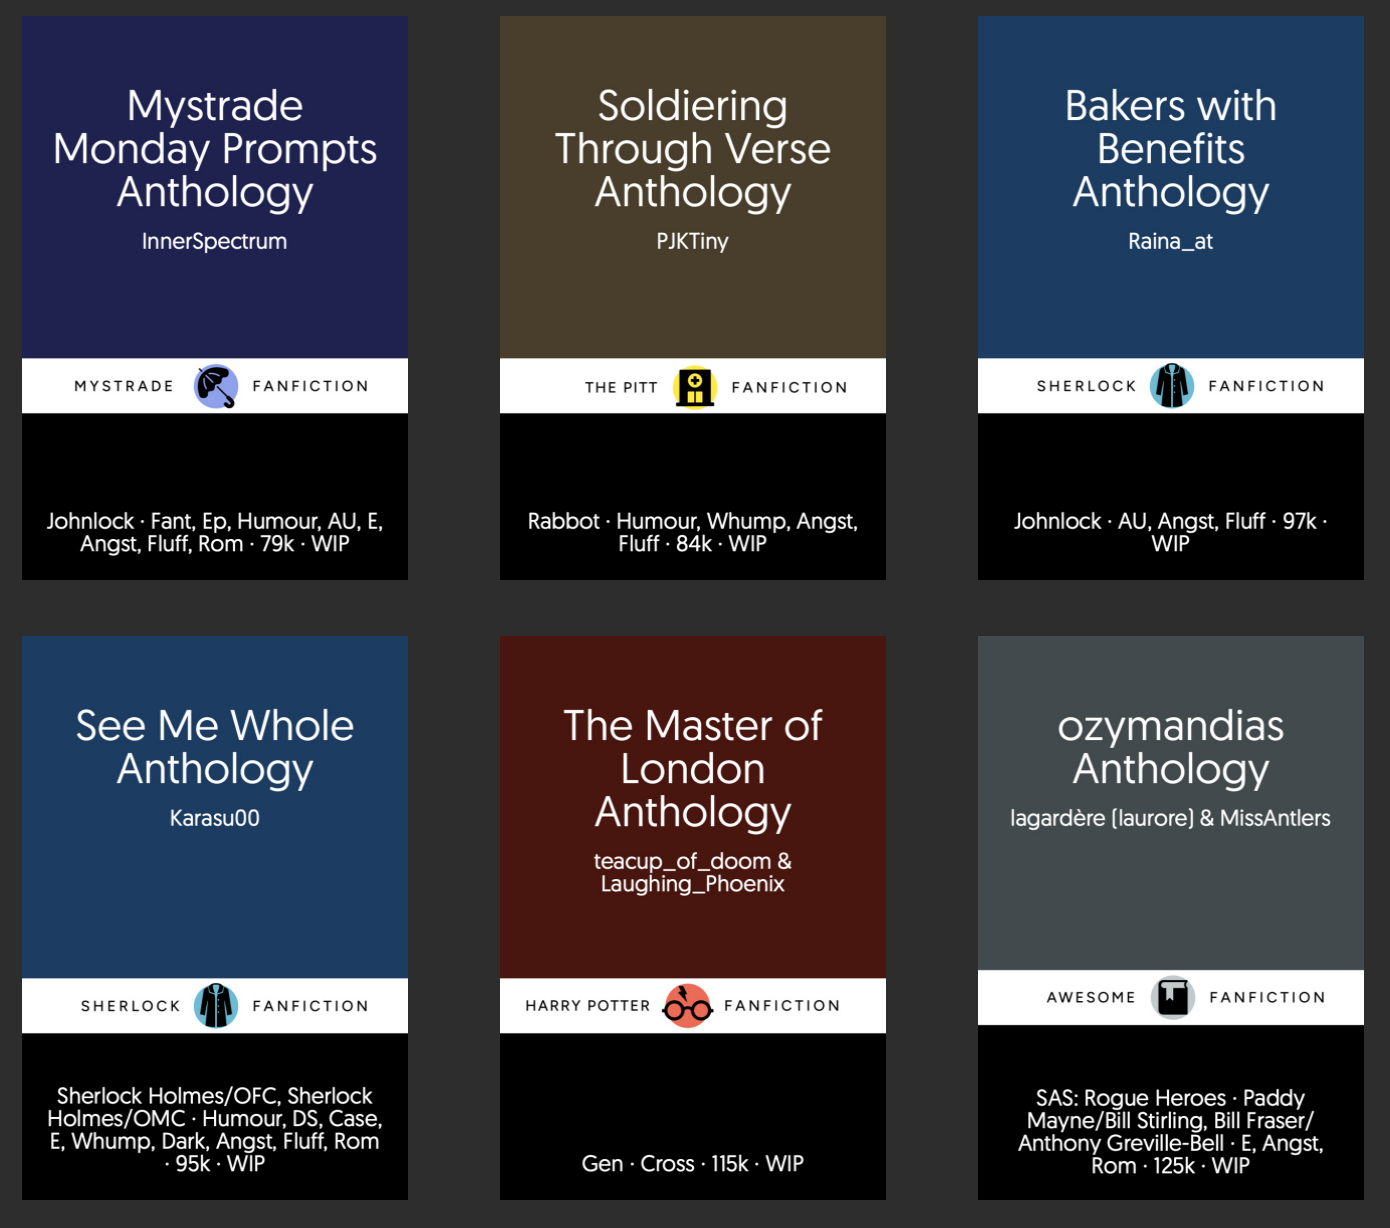
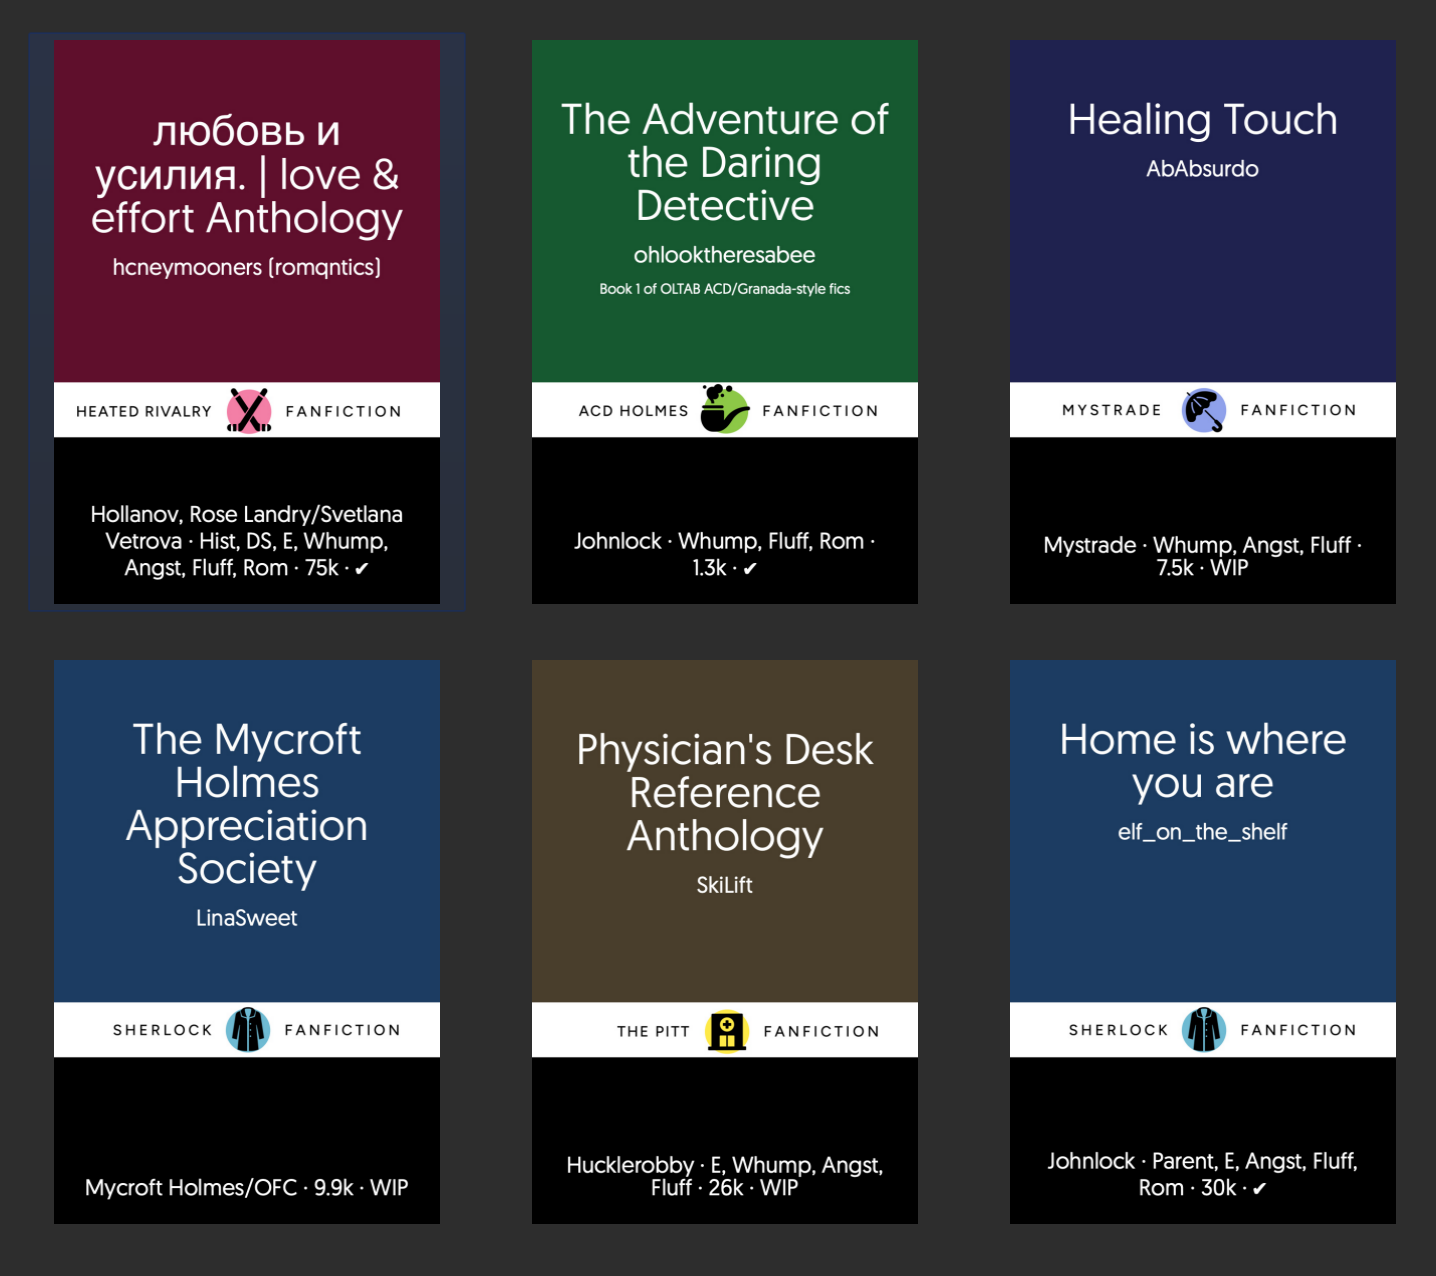
complete draft 1

diff --git a/assets/css/style.css b/assets/css/style.css
@@ -51,7 +51,7 @@ body {
 }
 
 .topbar-title:hover {
-  color: #7eb8f7;
+  color: #7EC6F6;
 }
 
 .topbar-sub {
@@ -110,7 +110,7 @@ body {
 
 .nav-link.active {
   color: #ffffff;
-  border-left-color: #7eb8f7;
+  border-left-color: #7EC6F6;
   background: rgba(126, 184, 247, 0.08);
 }
 
@@ -184,12 +184,24 @@ p {
 }
 
 a {
-  color: #7eb8f7;
+  color: #7ec6f7;
   text-decoration: none;
+  
 }
 
 a:hover {
   text-decoration: underline;
+}
+a.btn{
+  display: inline-block;
+  background-color: #7EC6F6;
+  color:#111827 ;
+  padding: 1em 3em;
+  font-weight: 700;
+  
+}
+a.btn:hover{
+  background-color: #6db6e6;
 }
 
 strong {
@@ -254,7 +266,7 @@ pre code {
 .highlight .c, .highlight .cm, .highlight .c1 { color: #4a5e6e; }  /* comments */
 .highlight .s, .highlight .s1, .highlight .s2 { color: #a8d870; }  /* strings */
 .highlight .k, .highlight .kd { color: #c792ea; }                   /* keywords */
-.highlight .n, .highlight .na { color: #7eb8f7; }                   /* names */
+.highlight .n, .highlight .na { color: #7EC6F6; }                   /* names */
 .highlight .o { color: #89ddff; }                                    /* operators */
 .highlight .m, .highlight .mi { color: #f78c6c; }                   /* numbers */
 
@@ -280,7 +292,7 @@ pre code {
   border-color: rgba(126, 184, 247, 0.25);
 }
 
-.callout.note .callout-title { color: #7eb8f7; }
+.callout.note .callout-title { color: #7EC6F6; }
 .callout.note p { color: #8b93b0; }
 
 .callout.warning {
@@ -364,7 +376,7 @@ pre code {
   width: 5px;
   height: 5px;
   border-radius: 50%;
-  background: #7eb8f7;
+  background: #7EC6F6;
   flex-shrink: 0;
   display:inline-block;
   vertical-align: middle;
@@ -407,4 +419,40 @@ img.small{
   .topbar-sub {
     display: none;
   }
+}
+.next-step {
+  margin-top: 64px;
+  padding-top: 32px;
+  border-top: 1px solid rgba(255, 255, 255, 0.07);
+}
+
+.next-step a {
+  display: inline-flex;
+  flex-direction: column;
+  gap: 4px;
+  background: #1a2340;
+  border: 1px solid rgba(255, 255, 255, 0.07);
+  border-radius: 8px;
+  padding: 16px 22px;
+  text-decoration: none;
+  transition: border-color 0.15s, background 0.15s;
+}
+
+.next-step a:hover {
+  border-color: rgba(126, 184, 247, 0.3);
+  background: #1e284a;
+}
+
+.next-label {
+  font-size: 11px;
+  font-weight: 600;
+  letter-spacing: 0.08em;
+  text-transform: uppercase;
+  color: #4a5270;
+}
+
+.next-title {
+  font-size: 15px;
+  font-weight: 600;
+  color: #dde2f0;
 }

diff --git a/nerdery.md b/nerdery.md
@@ -1,0 +1,172 @@
+---
+layout: default
+title: "Step 6: Tips and tricks"
+subtitle: "Independent techniques to extend and refine your setup"
+---
+
+The techniques on this page are modular — use any combination, in any order. None of them require the previous steps to be complete.
+
+---
+
+## Metadata normalization
+
+AO3's tagging is freeform, which means the same ship, character, or concept can appear under dozens of slightly different names. `replace_metadata` in `personal.ini` lets you clean this up as data comes in, so your library stays consistent without manual editing.
+
+Add these to the `add_to_replace_metadata` block in your `[defaults]` section. They run in order, so the sequence matters.
+
+**Strip fandom qualifiers from ship names.** AO3 often appends the fandom in parentheses — "jack Abbott (The Pitt)" — which clutters ship tags. This removes anything in parentheses from ship strings:
+
+```ini
+ships=> \([^)]+\)=>
+```
+
+**Standardize original character tags.** AO3 uses several variants — "Original Male Character", "Original Male Character(s)", "OMC" — for the same thing. These collapse them:
+
+```ini
+# For ships (substring match — OC appears inside a ship string)
+ships=>(?i)Original Male Character(\(s\)|s|)=>OMC
+ships=>(?i)Original Female Character(\(s\)|s|)=>OFC
+ships=>(?i)Original Character(\(s\)|s|)=>OC
+
+# For character tags (whole-string match)
+characters=>(?i)^Original Male Character(\(s\)|s|)$=>OMC
+characters=>(?i)^Original Female Character(\(s\)|s|)$=>OFC
+characters=>(?i)^Original Character(\(s\)|s|)$=>OC
+```
+
+**Convert friendship tags to a consistent format.** AO3 uses both `&` and `/` for platonic relationships, sometimes with "(Friendship)" appended. This normalizes them:
+
+```ini
+ships=>(.*)[/&](.*) \(?[Ff]riendship(?: only)\)?=>\1 & \2
+ships=> - Relationship=>
+```
+
+---
+
+## Advanced cover rules
+
+### Matching on title length
+
+Long titles can overflow a cover template designed for shorter ones. A dedicated "small text" template handles this cleanly. Place it at the bottom of your `generate_cover_settings` block as a catch-all — anything that has already matched a fandom rule won't reach it, and anything that hasn't will get the small template if its title is long enough:
+
+```ini
+generate_cover_settings:
+    ${category} => [Ss]herlock => Classics Sherlock
+    ${category} => Omens       => Classics Omens
+    ${title}    => .{40,}      => Classics Small
+```
+
+The `.{40,}` matches any title of 40 or more characters. Adjust the number to suit your template's comfortable title length.
+
+### Protecting custom covers
+
+If you've manually set a cover for a specific fic and don't want FFF to overwrite it on metadata updates, add a URL-based exclusion at the very top of `generate_cover_settings`. The first match wins, so an empty rule stops cover generation entirely for that fic:
+
+```ini
+generate_cover_settings:
+    ${storyUrl} => works/12345$ =>
+    ${storyUrl} => works/67890$ =>
+    ${category} => [Ss]herlock  => Classics Sherlock
+    ...
+```
+
+The `$` anchors the match to the end of the URL, preventing partial matches.
+
+<div class="callout note">
+  <h6 class="callout-title">Note</h6>
+  <p>This list needs to be maintained manually — add a line whenever you assign a custom cover to a fic.</p>
+</div>
+
+---
+
+## Advanced GCC content tags
+
+Generate Cover's Contents tab accepts Calibre's template language in the custom text field, not just plain field references. This lets you build conditional, formatted content blocks.
+
+**Conditional display.** A field reference wrapped in `|prefix|` only renders if the field has a value — nothing appears at all if it's empty. Useful for fields that aren't always populated:
+
+```
+{series:|Book {series_index} of |}
+```
+
+This shows "Book 2 of Surface Tension" for a fic in a series, and nothing for a standalone.
+
+**Fallback placeholder.** `ifempty()` shows alternative text when a field is empty — useful for keeping layout consistent when some fics have ship data and some don't:
+
+```
+{#short_ships:ifempty(Gen)}
+```
+
+**Combining fields on one line.** Fields can be concatenated directly:
+
+```
+{#short_ships} · {#short_words} · {#short_status}
+```
+
+Produces something like `Johnlock · 34k · ✔`.
+
+**Conditional prefix with newline.** The `\n` escape inserts a line break, useful for multi-line content blocks:
+
+```
+{#genre:|Tags: \n|}
+```
+
+Shows "Tags:" on one line and the genre values below it, but only if genre has a value.
+
+**Adding a prefix or suffix.**
+
+In GCC's template syntax, `|prefix|suffix|` wraps content that only renders if the field has a value — so both the value AND the surrounding text disappear when empty:
+
+```
+{#short_words:|| words|}
+```
+
+Shows `34k words` when populated, nothing when empty. The double `||` means no prefix, just a suffix. To add both:
+
+```
+{#short_words:|Length: | words|}
+```
+
+Shows `Length: 34k words` or nothing.
+---
+
+## Likeability score
+
+A computed column that estimates a fic's engagement level relative to its length and structure. It's based on the ratio of kudos to hits — high kudos per hit suggests strong reader investment — weighted by word count and chapter count to give longer, more complex fics a slight boost.
+
+**Column name:** Likeability — **Lookup name:** `likeability` — **Type:** Column built from other columns
+
+```
+program:
+k = field('#kudos');
+h = field('#hits');
+w = field('#words');
+c = field('#chapters');
+
+if or(k == '', h == '', w == '', c == '', k <=# 0, h <=# 0, w <=# 0, c <=# 0)
+then ''
+else
+    cf = switch_if(
+        c <=# 1,  1,
+        c <=# 3,  1.4,
+        c <=# 8,  2.2,
+        c <=# 20, 3.5,
+        5
+    );
+    wf = switch_if(
+        w <# 5000,   0.8,
+        w <# 20000,  1,
+        w <# 60000,  1.15,
+        w <# 150000, 1.3,
+        1.45
+    );
+    round(divide(multiply(divide(multiply(multiply(k, k), multiply(cf, wf)), h), 100), 1000))
+fi
+```
+
+Returns empty if any required field is missing or zero, so fics without hit/kudos data don't generate a misleading score.
+
+<div class="callout warning">
+  <div class="callout-title">Keep this in perspective</div>
+  <p>The score is not meaningful in absolute terms and is not comparable across fandoms: a niche fandom with 200 readers will score very differently from a mainstream one. It's most useful for relative sorting within a single fandom or pairing. Treat it as a starting point to tweak rather than a finished metric.</p>
+</div>

diff --git a/index.md b/index.md
@@ -1,10 +1,12 @@
 ---
 layout: default
-title: Automatic covers for your fanfic library
+title: Advanced covers for your fanfic library
 subtitle: A guide for FanFicFare + Calibre users
 ---
 
 <p>You're already using FanFicFare to download fic and Calibre to manage it. This guide is about making your library look good and give you useful information at a glance: automatically, per fandom, with metadata that actually matters to you.</p>
+
+<p>If you need a more general, but advanced guide to setting up Calibre + FanFicFare, without emphasis on covers, I cannot recommend <a href="https://maelstrom.quest/2026/02/24/calibre-fff-guide/">Stormy Crossroads' Calibre + Fanficfare tutorial</a>
 
 ![Cover samples]({{ '/assets/img/cover_samples.png' | relative_url }})
 
@@ -49,4 +51,11 @@ This is not a guide to setting up FanFicFare from scratch. For that, see the [FF
 <div class="callout note">
   <h6 class="callout-title">Note</h6>
   <p>This guide is written with AO3 in mind. Settings may need adjustments for other sites.</p>
+</div>
+---
+<div class="next-step">
+  <a href="{{ '/per-fandom/' | relative_url }}">
+    <span class="next-label">Get Started</span>
+    <span class="next-title">Step 1: Basic covers →</span>
+  </a>
 </div>

diff --git a/advanced-columns.md b/advanced-columns.md
@@ -197,3 +197,12 @@ fi
   <h6 class="callout-title">Using ship tags for covers</h6>
   <p>Once this column is working, you can use it in <code>generate_cover_settings</code> in FFF's personal.ini to assign per-ship cover templates — for example, a dedicated cover for your OTP. Add a line like <code>${#short_ships} => Johnlock => Classics Johnlock</code> above your fandom rules. First match wins, so ship-specific rules should come before fandom rules.</p>
 </div>
+
+---
+
+<div class="next-step">
+  <a href="{{ 'advanced-ships/' | relative_url }}">
+    <span class="next-label">Next</span>
+    <span class="next-title">Step 5: Advanced ships →</span>
+  </a>
+</div>

diff --git a/advanced-ships.md b/advanced-ships.md
@@ -162,3 +162,12 @@ generate_cover_settings:
 
 This is how you get a dedicated cover for a specific pairing regardless of fandom — useful if you read across multiple fandoms that share a ship archetype, or simply because your OTP deserves its own template.
 
+
+---
+
+<div class="next-step">
+  <a href="{{ '/nerdery/' | relative_url }}">
+    <span class="next-label">Next</span>
+    <span class="next-title">Step 6: Tips & Tricks →</span>
+  </a>
+</div>

diff --git a/basic-covers.md b/basic-covers.md
@@ -88,3 +88,12 @@ Download any fic from AO3. When it completes, you should see a generated cover i
 ## What's next
 
 In step 2, you'll set up different cover templates per fandom and have FFF apply them automatically when downloading.
+
+---
+
+<div class="next-step">
+  <a href="{{ '/per-fandom/' | relative_url }}">
+    <span class="next-label">Next</span>
+    <span class="next-title">Step 2: Per-fandom covers →</span>
+  </a>
+</div>

diff --git a/custom-columns.md b/custom-columns.md
@@ -62,3 +62,12 @@ You can also display column values directly on covers using the `{#custom_column
 ## What's next
 
 In step 4 you'll learn how to tweak custom columns to get even more useful data for your covers.
+
+---
+
+<div class="next-step">
+  <a href="{{ '/advanced-columns/' | relative_url }}">
+    <span class="next-label">Next</span>
+    <span class="next-title">Step 4: Advanced columns →</span>
+  </a>
+</div>

diff --git a/per-fandom.md b/per-fandom.md
@@ -56,3 +56,12 @@ If the fandom doesn't match any of your rules, the default that you set in the F
 ## What's next
 
 In step 3 you'll set up custom metadata columns — including ship names — that can feed back into cover selection here, allowing per-ship templates like a dedicated cover for your OTP.
+
+
+---
+<div class="next-step">
+  <a href="{{ '/per-fandom/' | relative_url }}">
+    <span class="next-label">Next</span>
+    <span class="next-title">Step 3: Custom columns →</span>
+  </a>
+</div>